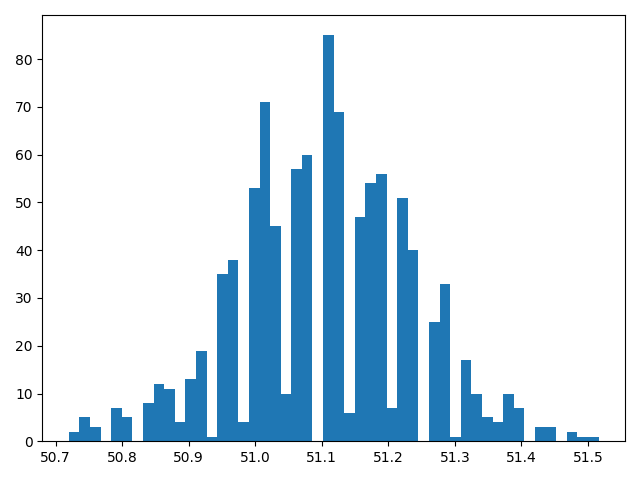
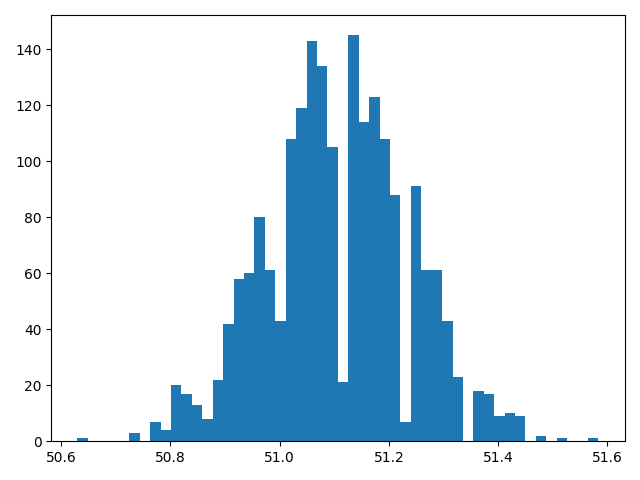
Add bootstraps and create histograms pre/post-COVID data

diff --git a/src/UNGD_samp_stats.py b/src/UNGD_samp_stats.py
@@ -9,7 +9,7 @@ UNGD_pre_covid = Path(__file__).parent.parent / "data" / "processed" / "UNGD_pre
 UNGD_post_covid = Path(__file__).parent.parent / "data" / "processed" / "UNGD_post_covid.csv"
 
 #function which automatically does bootstraping, for example see use below
-nboot = 1000 #change value of itterations
+nboot = 2000 #change value of itterations
 def bootstrap(x, nboot, statsfunc):
     x = np.array(x)
 
@@ -22,6 +22,9 @@ def bootstrap(x, nboot, statsfunc):
 
     return np.array(resampled_stats)
 
+#-----------------------------------------------------
+# UNGD_happiness summary, bootstrap, and histogram
+#-----------------------------------------------------
 df = pd.read_csv(UNGD_happiness)
 df = df[(df["year"] >= 2015) & (df["year"] <= 2025)]
 print("Dataset head:") # this can go
@@ -39,20 +42,6 @@ summary = df.groupby("year")["happiness_average"].agg(
 print("Range summary:")
 print(summary)
 
-# not sure if we're using the stuff below
-yr_2015 = df[df["year"] == "2015"]["happiness_average"]
-yr_2016 = df[df["year"] == "2016"]["happiness_average"]
-yr_2017 = df[df["year"] == "2017"]["happiness_average"]
-yr_2018 = df[df["year"] == "2018"]["happiness_average"]
-yr_2019 = df[df["year"] == "2019"]["happiness_average"]
-yr_2020 = df[df["year"] == "2020"]["happiness_average"]
-yr_2021 = df[df["year"] == "2021"]["happiness_average"]
-yr_2022 = df[df["year"] == "2022"]["happiness_average"]
-yr_2023 = df[df["year"] == "2023"]["happiness_average"]
-yr_2024 = df[df["year"] == "2024"]["happiness_average"]
-yr_2025 = df[df["year"] == "2025"]["happiness_average"]
-
-
 summary_bootstrap = bootstrap(summary, nboot, np.mean) # example of bootstrap function feel free to change var name
 
 # important stats for analysis, repeat for following data frames
@@ -65,5 +54,75 @@ print("Summary bootstrap std: \n", np.std(summary_bootstrap))
 plt.figure()
 plt.hist(summary_bootstrap, bins=50)
 plt.tight_layout()
-plt.savefig("Hedonometer/output/figures/UNGD_summary_bootstrap.png")
+plt.savefig("output/figures/UNGD_summary_bootstrap.png")
+plt.close()
+
+#-----------------------------------------------------
+# UNGD_pre_covid summary, bootstrap, and histogram
+#-----------------------------------------------------
+df_pre = pd.read_csv(UNGD_pre_covid)
+df_pre = df_pre[(df_pre["year"] >= 2015) & (df_pre["year"] <= 2019)]
+print("Pre-COVID head:") # this can go
+print(df_pre.head()) # this too
+print("Pre-COVID description:")
+print(df_pre.describe())
+
+summary_pre = df_pre.groupby("year")["happiness_average"].agg(
+    mean="mean",
+    median="median",
+    standard_deviation ="std",
+    occurrence="count" # how many times this year occurs in column "year"
+)
+
+print("Pre-COVID summary:")
+print(summary_pre)
+
+summary_pre_bootstrap = bootstrap(summary_pre, nboot, np.mean) # example of bootstrap function feel free to change var name
+
+# important stats for analysis, repeat for following data frames
+print("Summary mean: \n", np.mean(summary_pre))
+print("Summary bootstrap mean: \n", np.mean(summary_pre_bootstrap))
+print("Summary bootstrap median \n", np.median(summary_pre_bootstrap))
+print("Summary bootstrap std: \n", np.std(summary_pre_bootstrap))
+
+# histogram for the summary dataframe
+plt.figure()
+plt.hist(summary_pre_bootstrap, bins=50)
+plt.tight_layout()
+plt.savefig("output/figures/UNGD_pre_covid_bootstrap.png")
+plt.close()
+
+#-----------------------------------------------------
+# UNGD_post_covid summary, bootstrap, and histogram
+#-----------------------------------------------------
+df_post = pd.read_csv(UNGD_post_covid)
+df_post = df_post[(df_post["year"] >= 2020) & (df_post["year"] <= 2025)]
+print("Post-COVID head:") # this can go
+print(df_post.head()) # this too
+print("Post-COVID description:")
+print(df_post.describe())
+
+summary_post = df_post.groupby("year")["happiness_average"].agg(
+    mean="mean",
+    median="median",
+    standard_deviation ="std",
+    occurrence="count" # how many times this year occurs in column "year"
+)
+
+print("Post-COVID summary:")
+print(summary_post)
+
+summary_post_bootstrap = bootstrap(summary_post, nboot, np.mean) # example of bootstrap function feel free to change var name
+
+# important stats for analysis, repeat for following data frames
+print("Summary mean: \n", np.mean(summary_post))
+print("Summary bootstrap mean: \n", np.mean(summary_post_bootstrap))
+print("Summary bootstrap median \n", np.median(summary_post_bootstrap))
+print("Summary bootstrap std: \n", np.std(summary_post_bootstrap))
+
+# histogram for the summary dataframe
+plt.figure()
+plt.hist(summary_post_bootstrap, bins=50)
+plt.tight_layout()
+plt.savefig("output/figures/UNGD_post_covid_bootstrap.png")
 plt.close()
